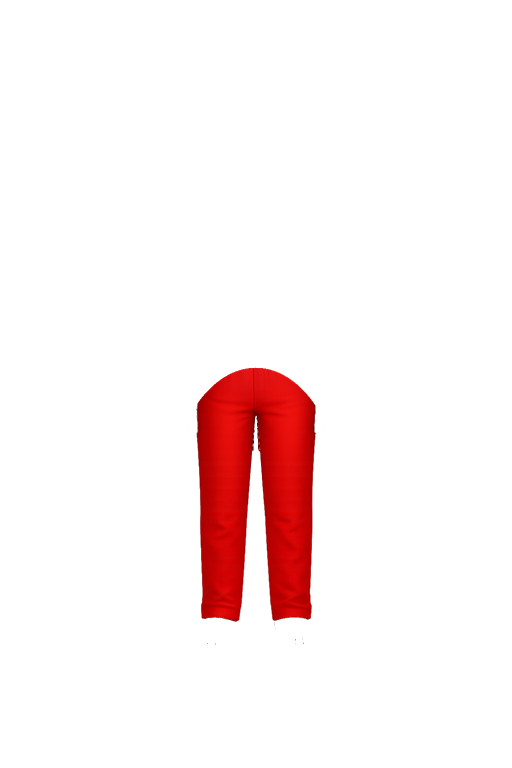
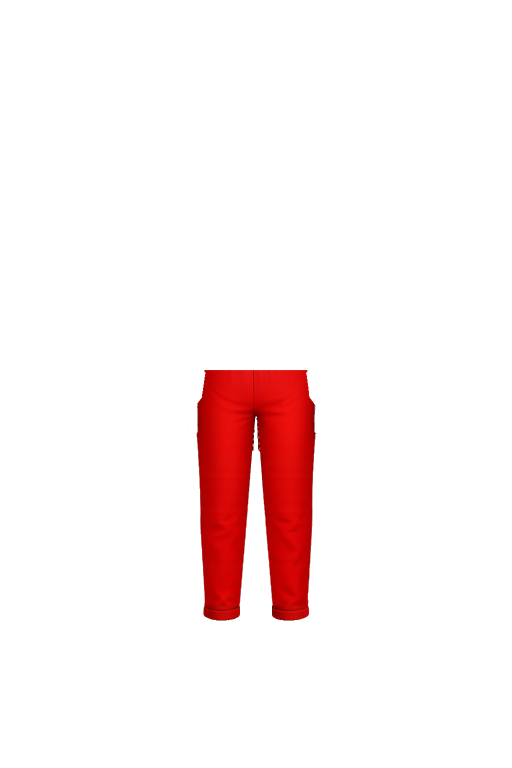
Prøve: cowboyshorts, lange bukser med lige linning og opslag

diff --git a/precache-manifest.js b/precache-manifest.js
@@ -1,2 +1,2 @@
-self.MINIMIG_VERSION = '8E781ABB6B5CD86F';
-self.MINIMIG_FILES = ["billeder/figur.png","billeder/ikon-180.png","billeder/ikon-192.png","billeder/ikon-512.png","index.html","manifest.webmanifest","privatliv/index.html","proev/baggrund/dansesal.jpg","proev/baggrund/fodboldbane.jpg","proev/baggrund/gymnastiksal.jpg","proev/baggrund/havbund.jpg","proev/baggrund/have.jpg","proev/baggrund/ridderborg.jpg","proev/baggrund/rummet.jpg","proev/baggrund/skov.jpg","proev/baggrund/slikland.jpg","proev/baggrund/slot.jpg","proev/baggrund/strand.jpg","proev/baggrund/vinter.jpg","proev/dele/briller-firkant.png","proev/dele/briller-hjerte.png","proev/dele/briller-runde.png","proev/dele/briller-ski.png","proev/dele/briller-sol.png","proev/dele/briller-stjerne.png","proev/dele/bryn-hoeje.png","proev/dele/bryn-ingen.png","proev/dele/bryn-sure.png","proev/dele/bryn-triste.png","proev/dele/bryn-tykke.png","proev/dele/bryn-tynde.png","proev/dele/bukser-fodbold.png","proev/dele/bukser-lange.png","proev/dele/grund.png","proev/dele/grund-dans.png","proev/dele/grund-hofter.png","proev/dele/grund-hurra.png","proev/dele/grund-vink.png","proev/dele/hand-ballon.png","proev/dele/hand-bamse.png","proev/dele/hand-blomst.png","proev/dele/hand-bold.png","proev/dele/hand-is.png","proev/dele/hand-tryllestav.png","proev/dele/hat-blomst.png","proev/dele/hat-enhjoerning.png","proev/dele/hat-festhat.png","proev/dele/hat-hovedtelefoner.png","proev/dele/hat-kaninoerer.png","proev/dele/hat-kasket.png","proev/dele/hat-krone.png","proev/dele/hat-sloejfe.png","proev/dele/hat-tiara.png","proev/dele/haar-bob.png","proev/dele/haar-fletninger.png","proev/dele/haar-kort.png","proev/dele/haar-kroeller.png","proev/dele/haar-strit.png","proev/dele/kjole-fest.png","proev/dele/kjole-fest-dans.png","proev/dele/kjole-fest-hofter.png","proev/dele/kjole-fest-hurra.png","proev/dele/kjole-fest-vink.png","proev/dele/kjole-galla.png","proev/dele/kjole-galla-dans.png","proev/dele/kjole-galla-hofter.png","proev/dele/kjole-galla-hurra.png","proev/dele/kjole-galla-vink.png","proev/dele/kjole-havfrue.png","proev/dele/kjole-havfrue-dans.png","proev/dele/kjole-havfruedragt.png","proev/dele/kjole-havfruedragt-dans.png","proev/dele/kjole-havfruedragt-hofter.png","proev/dele/kjole-havfruedragt-hurra.png","proev/dele/kjole-havfruedragt-vink.png","proev/dele/kjole-havfrue-hofter.png","proev/dele/kjole-havfrue-hurra.png","proev/dele/kjole-havfrue-vink.png","proev/dele/kjole-prinsesse.png","proev/dele/kjole-prinsesse-dans.png","proev/dele/kjole-prinsesse-hofter.png","proev/dele/kjole-prinsesse-hurra.png","proev/dele/kjole-prinsesse-vink.png","proev/dele/kjole-sommer.png","proev/dele/kjole-sommer-dans.png","proev/dele/kjole-sommer-hofter.png","proev/dele/kjole-sommer-hurra.png","proev/dele/kjole-sommer-vink.png","proev/dele/kjole-tyl.png","proev/dele/kjole-tyl-dans.png","proev/dele/kjole-tyl-hofter.png","proev/dele/kjole-tyl-hurra.png","proev/dele/kjole-tyl-vink.png","proev/dele/laar-bare.png","proev/dele/laar-bare2.png","proev/dele/mund-grin.png","proev/dele/mund-kys.png","proev/dele/mund-neutral.png","proev/dele/mund-o.png","proev/dele/mund-trist.png","proev/dele/mund-tunge.png","proev/dele/naese-bred.png","proev/dele/naese-dyr.png","proev/dele/naese-klovn.png","proev/dele/naese-lang.png","proev/dele/naese-lille.png","proev/dele/oejne-blink.png","proev/dele/oejne-glad.png","proev/dele/oejne-hjerte.png","proev/dele/oejne-stjerne.png","proev/dele/oejne-store.png","proev/dele/oejne-vipper.png","proev/dele/oerer-alfe.png","proev/dele/oerer-smaa.png","proev/dele/oerer-store.png","proev/dele/oerer-udstaaende.png","proev/dele/sko-ballet.png","proev/dele/sko-fodbold.png","proev/dele/sko-glas.png","proev/dele/sko-sneakers.png","proev/dele/ting-boejle.png","proev/dele/ting-fodbold.png","proev/dele/troeje-ballet.png","proev/dele/troeje-ballet-dans.png","proev/dele/troeje-ballet-hofter.png","proev/dele/troeje-ballet-hurra.png","proev/dele/troeje-ballet-vink.png","proev/dele/troeje-fodbold.png","proev/dele/troeje-fodbold-dans.png","proev/dele/troeje-fodbold-hofter.png","proev/dele/troeje-fodbold-hurra.png","proev/dele/troeje-fodbold-inde.png","proev/dele/troeje-fodbold-inde-dans.png","proev/dele/troeje-fodbold-inde-hofter.png","proev/dele/troeje-fodbold-inde-hurra.png","proev/dele/troeje-fodbold-inde-vink.png","proev/dele/troeje-fodbold-vink.png","proev/dele/troeje-gymnastik.png","proev/dele/troeje-gymnastik-dans.png","proev/dele/troeje-gymnastik-hofter.png","proev/dele/troeje-gymnastik-hurra.png","proev/dele/troeje-gymnastik-vink.png","proev/dele/troeje-haette.png","proev/dele/troeje-haette-dans.png","proev/dele/troeje-haette-hofter.png","proev/dele/troeje-haette-hurra.png","proev/dele/troeje-haette-vink.png","proev/dele/troeje-tshirt.png","proev/dele/troeje-tshirt-dans.png","proev/dele/troeje-tshirt-hofter.png","proev/dele/troeje-tshirt-hurra.png","proev/dele/troeje-tshirt-vink.png","proev/ikoner/baggrund.png","proev/ikoner/briller.png","proev/ikoner/bryn.png","proev/ikoner/bukser.png","proev/ikoner/gymnastik.png","proev/ikoner/haender.png","proev/ikoner/hat.png","proev/ikoner/hud.png","proev/ikoner/haar.png","proev/ikoner/kinder.png","proev/ikoner/kjoler.png","proev/ikoner/mund.png","proev/ikoner/naese.png","proev/ikoner/navn.png","proev/ikoner/oejne.png","proev/ikoner/oerer.png","proev/ikoner/sko.png","proev/ikoner/sport.png","proev/ikoner/stilling.png","proev/ikoner/ting.png","proev/ikoner/troeje.png","proev/index.html","pwa.css","pwa.js","style.css","support/index.html","til-foraeldre/index.html"];
+self.MINIMIG_VERSION = 'EEEE6929497ABED7';
+self.MINIMIG_FILES = ["billeder/figur.png","billeder/ikon-180.png","billeder/ikon-192.png","billeder/ikon-512.png","index.html","manifest.webmanifest","privatliv/index.html","proev/baggrund/dansesal.jpg","proev/baggrund/fodboldbane.jpg","proev/baggrund/gymnastiksal.jpg","proev/baggrund/havbund.jpg","proev/baggrund/have.jpg","proev/baggrund/ridderborg.jpg","proev/baggrund/rummet.jpg","proev/baggrund/skov.jpg","proev/baggrund/slikland.jpg","proev/baggrund/slot.jpg","proev/baggrund/strand.jpg","proev/baggrund/vinter.jpg","proev/dele/briller-firkant.png","proev/dele/briller-hjerte.png","proev/dele/briller-runde.png","proev/dele/briller-ski.png","proev/dele/briller-sol.png","proev/dele/briller-stjerne.png","proev/dele/bryn-hoeje.png","proev/dele/bryn-ingen.png","proev/dele/bryn-sure.png","proev/dele/bryn-triste.png","proev/dele/bryn-tykke.png","proev/dele/bryn-tynde.png","proev/dele/bukser-cowboy.png","proev/dele/bukser-fodbold.png","proev/dele/bukser-lange.png","proev/dele/grund.png","proev/dele/grund-dans.png","proev/dele/grund-hofter.png","proev/dele/grund-hurra.png","proev/dele/grund-vink.png","proev/dele/hand-ballon.png","proev/dele/hand-bamse.png","proev/dele/hand-blomst.png","proev/dele/hand-bold.png","proev/dele/hand-is.png","proev/dele/hand-tryllestav.png","proev/dele/hat-blomst.png","proev/dele/hat-enhjoerning.png","proev/dele/hat-festhat.png","proev/dele/hat-hovedtelefoner.png","proev/dele/hat-kaninoerer.png","proev/dele/hat-kasket.png","proev/dele/hat-krone.png","proev/dele/hat-sloejfe.png","proev/dele/hat-tiara.png","proev/dele/haar-bob.png","proev/dele/haar-fletninger.png","proev/dele/haar-kort.png","proev/dele/haar-kroeller.png","proev/dele/haar-strit.png","proev/dele/kjole-fest.png","proev/dele/kjole-fest-dans.png","proev/dele/kjole-fest-hofter.png","proev/dele/kjole-fest-hurra.png","proev/dele/kjole-fest-vink.png","proev/dele/kjole-galla.png","proev/dele/kjole-galla-dans.png","proev/dele/kjole-galla-hofter.png","proev/dele/kjole-galla-hurra.png","proev/dele/kjole-galla-vink.png","proev/dele/kjole-havfrue.png","proev/dele/kjole-havfrue-dans.png","proev/dele/kjole-havfruedragt.png","proev/dele/kjole-havfruedragt-dans.png","proev/dele/kjole-havfruedragt-hofter.png","proev/dele/kjole-havfruedragt-hurra.png","proev/dele/kjole-havfruedragt-vink.png","proev/dele/kjole-havfrue-hofter.png","proev/dele/kjole-havfrue-hurra.png","proev/dele/kjole-havfrue-vink.png","proev/dele/kjole-prinsesse.png","proev/dele/kjole-prinsesse-dans.png","proev/dele/kjole-prinsesse-hofter.png","proev/dele/kjole-prinsesse-hurra.png","proev/dele/kjole-prinsesse-vink.png","proev/dele/kjole-sommer.png","proev/dele/kjole-sommer-dans.png","proev/dele/kjole-sommer-hofter.png","proev/dele/kjole-sommer-hurra.png","proev/dele/kjole-sommer-vink.png","proev/dele/kjole-tyl.png","proev/dele/kjole-tyl-dans.png","proev/dele/kjole-tyl-hofter.png","proev/dele/kjole-tyl-hurra.png","proev/dele/kjole-tyl-vink.png","proev/dele/laar-bare.png","proev/dele/laar-bare2.png","proev/dele/mund-grin.png","proev/dele/mund-kys.png","proev/dele/mund-neutral.png","proev/dele/mund-o.png","proev/dele/mund-trist.png","proev/dele/mund-tunge.png","proev/dele/naese-bred.png","proev/dele/naese-dyr.png","proev/dele/naese-klovn.png","proev/dele/naese-lang.png","proev/dele/naese-lille.png","proev/dele/oejne-blink.png","proev/dele/oejne-glad.png","proev/dele/oejne-hjerte.png","proev/dele/oejne-stjerne.png","proev/dele/oejne-store.png","proev/dele/oejne-vipper.png","proev/dele/oerer-alfe.png","proev/dele/oerer-smaa.png","proev/dele/oerer-store.png","proev/dele/oerer-udstaaende.png","proev/dele/sko-ballet.png","proev/dele/sko-fodbold.png","proev/dele/sko-glas.png","proev/dele/sko-sneakers.png","proev/dele/ting-boejle.png","proev/dele/ting-fodbold.png","proev/dele/troeje-ballet.png","proev/dele/troeje-ballet-dans.png","proev/dele/troeje-ballet-hofter.png","proev/dele/troeje-ballet-hurra.png","proev/dele/troeje-ballet-vink.png","proev/dele/troeje-fodbold.png","proev/dele/troeje-fodbold-dans.png","proev/dele/troeje-fodbold-hofter.png","proev/dele/troeje-fodbold-hurra.png","proev/dele/troeje-fodbold-inde.png","proev/dele/troeje-fodbold-inde-dans.png","proev/dele/troeje-fodbold-inde-hofter.png","proev/dele/troeje-fodbold-inde-hurra.png","proev/dele/troeje-fodbold-inde-vink.png","proev/dele/troeje-fodbold-vink.png","proev/dele/troeje-gymnastik.png","proev/dele/troeje-gymnastik-dans.png","proev/dele/troeje-gymnastik-hofter.png","proev/dele/troeje-gymnastik-hurra.png","proev/dele/troeje-gymnastik-vink.png","proev/dele/troeje-haette.png","proev/dele/troeje-haette-dans.png","proev/dele/troeje-haette-hofter.png","proev/dele/troeje-haette-hurra.png","proev/dele/troeje-haette-vink.png","proev/dele/troeje-tshirt.png","proev/dele/troeje-tshirt-dans.png","proev/dele/troeje-tshirt-hofter.png","proev/dele/troeje-tshirt-hurra.png","proev/dele/troeje-tshirt-vink.png","proev/ikoner/baggrund.png","proev/ikoner/briller.png","proev/ikoner/bryn.png","proev/ikoner/bukser.png","proev/ikoner/gymnastik.png","proev/ikoner/haender.png","proev/ikoner/hat.png","proev/ikoner/hud.png","proev/ikoner/haar.png","proev/ikoner/kinder.png","proev/ikoner/kjoler.png","proev/ikoner/mund.png","proev/ikoner/naese.png","proev/ikoner/navn.png","proev/ikoner/oejne.png","proev/ikoner/oerer.png","proev/ikoner/sko.png","proev/ikoner/sport.png","proev/ikoner/stilling.png","proev/ikoner/ting.png","proev/ikoner/troeje.png","proev/index.html","pwa.css","pwa.js","style.css","support/index.html","til-foraeldre/index.html"];

diff --git a/proev/index.html b/proev/index.html
@@ -317,7 +317,7 @@ header { display: flex; align-items: baseline; justify-content: space-between; g
 const SKIN = ['#F6D0AE', '#EDB98A', '#D9965F', '#B5713F', '#8D5530', '#5A3520'];
 const HAIR = ['#2A1C17', '#4A2C1D', '#7A4428', '#A8582E', '#D9A55C', '#F0D9A0', '#FF7EBB', '#5AA9FF'];
 const EYES = ['#9C5A1E', '#6B3A1A', '#4A2814', '#2E1A10', '#1A110C', '#3B7BD4', '#3E9A5C', '#A0763A', '#7D8A99', '#8A5CE6'];
-const CLOTH = ['#E8384F', '#FF7A2F', '#FFC233', '#2FB872', '#13BFA6', '#3D8BFF', '#7A4DFF', '#FF6FB1', '#F4F1EA', '#3A3550'];
+const CLOTH = ['#E8384F', '#FF7A2F', '#FFC233', '#2FB872', '#13BFA6', '#3D8BFF', '#46699E', '#7A4DFF', '#FF6FB1', '#F4F1EA', '#3A3550'];
 // besides plain colours: a rainbow, and patterns (dots, gingham, stripes) over the last plain colour chosen
 const PATTERNS = ['prikker', 'tern', 'striber'], SPECIAL = ['regnbue', ...PATTERNS];
 const TABS = [
@@ -358,7 +358,7 @@ const TABS = [
     opts: [['ingen', 'Ingen'], ['troeje-ballet', 'Balletkjole'], ['kjole-prinsesse', 'Prinsesse'], ['kjole-sommer', 'Sommerkjole'],
       ['kjole-tyl', 'Tylkjole'], ['kjole-fest', 'Festkjole'], ['kjole-havfrue', 'Havfrue'], ['kjole-havfruedragt', 'Havfruedragt'], ['kjole-galla', 'Galla']] },
   { id: 'bukser', name: 'Bukser', key: 'pants', colorKey: 'pantsColor', colors: [...CLOTH, ...SPECIAL],
-    opts: [['ingen', 'Shorts'], ['bukser-lange', 'Lange bukser'], ['bukser-fodbold', 'Fodboldshorts']] },
+    opts: [['ingen', 'Shorts'], ['bukser-lange', 'Lange bukser'], ['bukser-fodbold', 'Fodboldshorts'], ['bukser-cowboy', 'Cowboyshorts']] },
   { id: 'sko', name: 'Sko', key: 'shoes', colorKey: 'shoeColor', colors: CLOTH,
     opts: [['ingen', 'Bare tæer'], ['sko-sneakers', 'Sneakers'], ['sko-fodbold', 'Fodboldstøvler'], ['sko-ballet', 'Balletsko'], ['sko-glas', 'Glassko']] },
   { id: 'stilling', name: 'Stilling', key: 'pose',
@@ -380,6 +380,8 @@ const DRESSES = ['troeje-ballet', 'kjole-prinsesse', 'kjole-sommer', 'kjole-tyl'
 const LEG_TOPS = ['troeje-gymnastik', ...DRESSES]; // tops that paint bare thighs, which must not cover trousers
 // a top drawn tucked into particular shorts: [top, shorts] -> its tucked-in pictures (troeje-fodbold-inde[-pose])
 const TUCKED = { 'troeje-fodbold': ['bukser-fodbold', 'troeje-fodbold-inde'] };
+const TUCK_INTO = ['bukser-cowboy']; // trousers every top is tucked into (drawn over the top)
+const PANTS_TOP = { 'bukser-cowboy': 358 }; // trousers whose waistband sits above the waist line: its height
 // things (Ting) that are not held in the hand, placed on the 512x768 figure: a football on the ground by the feet, and a
 // hula hoop round the hips, its back half drawn behind the figure. They keep their own colours.
 const GEAR = { fodbold: { pic: 'ting-fodbold', x: 338, y: 566, w: 88, h: 88 },
@@ -419,7 +421,7 @@ function load(name, tries = 4) {
     im.onload = () => ok([name, im]);
     im.onerror = () => tries > 1 ? setTimeout(() => load(name, tries - 1).then(ok), 700) : ok([name, null]);
     im.src = 'dele/' + name + '.png?v=' + PICS_V + (tries < 4 ? '-' + tries : ''); }); }
-const PICS_V = 83; // raised when pictures change, so phones and browsers fetch the new ones instead of old copies
+const PICS_V = 91; // raised when pictures change, so phones and browsers fetch the new ones instead of old copies
 
 // per part: which pixels take the chosen colour (coloured ones; on shoes not the white soles) and their middle brightness
 function prepare(name, im) {
@@ -532,7 +534,10 @@ function compose(s, ctx) {
   const baseCopy = o.slice(); // the body as painted, for spots a part hid but no part then covered
   // face parts first; trousers go over the shoes, so the trouser hem falls over the top of the shoe.
   // A tucked-in top (the football shirt) lies under the shorts; a dress has bare legs under it, no shorts.
-  const body = [[s.pants, colSpec(s, 'pantsColor')], ['maerke-bukser'], [topOf(s), colSpec(s, 'topColor')]];
+  // (tops are tucked into the denim shorts: the shorts are drawn over the top, the hands on the hips kept over them)
+  const tucked = TUCK_INTO.includes(s.pants) && s.top !== 'ingen' && !LEG_TOPS.includes(s.top);
+  const body = tucked ? [[topOf(s), colSpec(s, 'topColor')], [s.pants, colSpec(s, 'pantsColor'), 'tucked'], ['maerke-bukser']]
+    : [[s.pants, colSpec(s, 'pantsColor')], ['maerke-bukser'], [topOf(s), colSpec(s, 'topColor')]];
   // bare thighs under a leotard or dress: the base's own legs carried up (laar-bare2), so they match the legs below;
   // the thighs the AI drew with the dress are left out
   // (not in the mermaid costume: the legs are inside its tail, which is narrower than they are)
@@ -586,9 +591,16 @@ function compose(s, ctx) {
       c = rainbow ? null : hex(pat ? col.split(':')[1] : col), soft = SOFT[name.split('-')[0]] || 1, kmax = name.startsWith('troeje-ballet') ? 1.15 : KMAX[name.split('-')[0]] || 99; // tulle highlights stay pink, not white
     // a top's bare thighs and hide marks below the waist (a leotard's) must not cover trousers worn with it
     const over = name === topOf(s) && s.pants !== 'ingen' && LEG_TOPS.includes(s.top) ? WAIST * W : W * H;
+    const handsOver = flag === 'tucked' && data[topOf(s)]; // (the top's own hands by the hips stay over tucked-in shorts)
     for (let i = 0, p = 0; p < W * H; i += 4, p++) {
       const a = d.px[i + 3]; if (!a) continue;
+      if (handsOver && p < (WAIST + 35) * W && handsOver.paint[p] === 4 && handsOver.px[i + 3] > 200) continue;
+      // a tucked-in top ends under the waistband: none of its cloth below it shows beside the shorts
+      if (tucked && name === topOf(s) && d.paint[p] !== 4 && p >= (PANTS_TOP[s.pants] + 2) * W) continue;
       if (p >= over && (d.paint[p] === 3 || d.paint[p] === 4)) continue;
+      // (any top's "hide the base" marks below the waist never cut through trousers worn under it - they showed as white
+      // holes and dots along the hem)
+      if (d.paint[p] === 3 && p >= WAIST * W && s.pants !== 'ingen' && name === topOf(s)) continue;
       // (and all of the dress's own skin over the thighs, low enough to miss hands resting on the hips)
       if (bareThighs && name === topOf(s) && p >= WAIST * W && (d.paint[p] === 3 || d.paint[p] === 4) &&
         (data['laar-bare2'].px[i + 3] > 1 || (p >= 418 * W && p % W > 202 && p % W < 311))) continue;
@@ -617,6 +629,9 @@ function compose(s, ctx) {
       if (a > 128) skinNow[p] = d.paint[p] === 4 ? 1 : 0;
       if (name.startsWith('bryn') && name !== 'bryn-ingen' && d.paint[p] !== 4) browPx.push(i, 0, 0, 0, a);
     }
+    // trousers narrower than the base's shorts (the denim shorts, in some poses): the shorts' edge left peeping out beside
+    // them goes (before the top, hands and things are drawn over it)
+    if (name === s.pants) for (let p = (PANTS_TOP[name] || WAIST) * W, i = p * 4; p < W * H; p++, i += 4) if (base.paint[p] === 2 && !d.px[i + 3]) o[i + 3] = 0;
     // a fringe over the brows: the brows show softly through it (where the hair covers them, not round them)
     if (name === s.hair) for (let k = 0; k < browPx.length; k += 5) { const i = browPx[k];
       if (o[i] !== browPx[k + 1] || o[i + 1] !== browPx[k + 2] || o[i + 2] !== browPx[k + 3]) blend(o, i, browPx[k + 1], browPx[k + 2], browPx[k + 3], browPx[k + 4] * BROW_THROUGH); }
@@ -1227,7 +1242,7 @@ try { Object.assign(state, JSON.parse(localStorage.getItem('minimig2') || '{}'))
 tidy(state);
 const POSES = ['vink', 'hurra', 'hofter', 'dans'];
 const TOPS = ['troeje-tshirt', 'troeje-haette', 'troeje-fodbold', 'troeje-fodbold-inde', 'troeje-gymnastik', ...DRESSES];
-const names = ['grund', 'laar-bare2', 'haar-bob', 'haar-kort', 'haar-strit', 'haar-kroeller', 'haar-fletninger', ...TOPS, 'bukser-lange', 'bukser-fodbold', 'sko-sneakers', 'sko-fodbold', 'sko-ballet', 'sko-glas',
+const names = ['grund', 'laar-bare2', 'haar-bob', 'haar-kort', 'haar-strit', 'haar-kroeller', 'haar-fletninger', ...TOPS, 'bukser-lange', 'bukser-fodbold', 'bukser-cowboy', 'sko-sneakers', 'sko-fodbold', 'sko-ballet', 'sko-glas',
   ...POSES.map(p => 'grund-' + p), ...POSES.flatMap(p => TOPS.map(t => t + '-' + p)),
   ...['oejne', 'bryn', 'mund', 'naese', 'oerer', 'briller'].flatMap(id => TABS.find(t => t.id === id).opts.map(o => o[0]).filter(n => n !== 'naturlig' && n !== 'ingen'))];
 const GEAR_PICS = [...Object.values(GEAR).map(g => g.pic), ...Object.keys(HATS).map(h => 'hat-' + h), ...Object.keys(ITEMS).map(n => 'hand-' + n)]; // not prepared as parts
